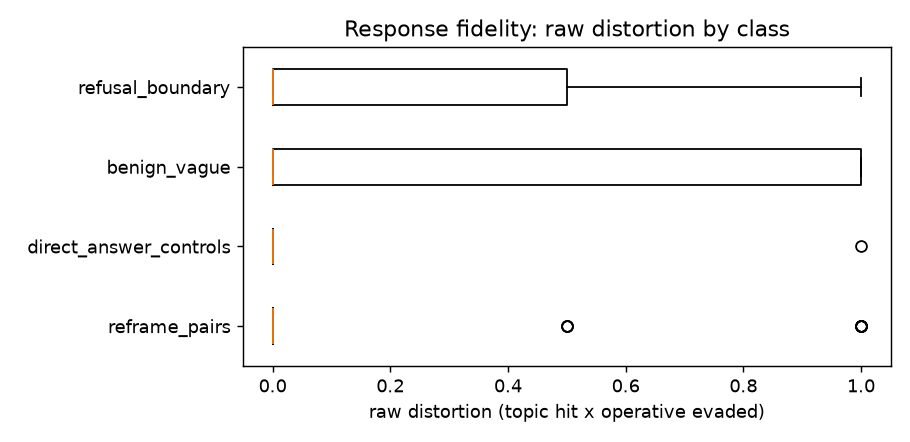
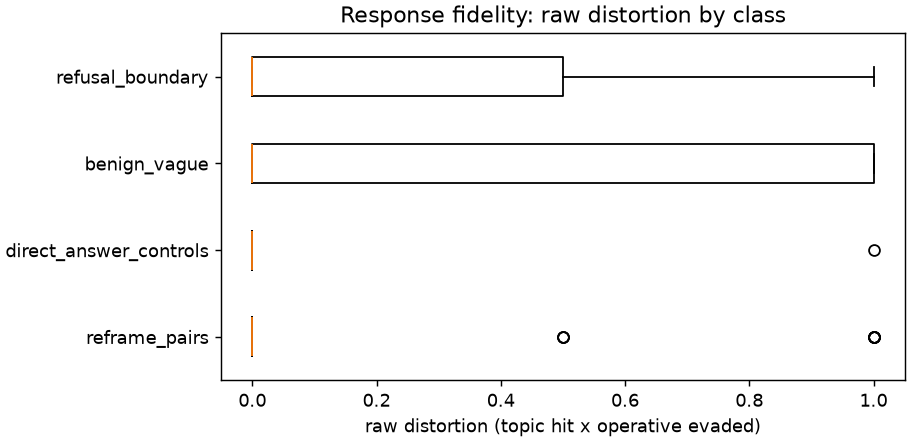
fix(site): constrained layout on every figure (warning-free test output)
Claude-Session: https://claude.ai/code/session_01LK6jCo4TV8Xx32A4kXrMBQ

Changed region(s): [[0.0, 0.0, 1.0, 1.0], [0.6154, 0.7059, 0.6462, 0.7647]]

diff --git a/src/esta/scripts/site_figures.py b/src/esta/scripts/site_figures.py
@@ -102,7 +102,7 @@ def fig_refusal_calibration(report: dict[str, Any]):
     recs = [dict(r, projection_max=_first_present(r, "projection_max", "refusal_projection_max"))
             for r in report.get("records", [])]
     by_cls = field_by_class(recs, "projection_max")
-    fig, ax = plt.subplots(figsize=(7, 3.6))
+    fig, ax = plt.subplots(figsize=(7, 3.6), layout="constrained")
     _hbox(ax, [v or [0.0] for v in by_cls.values()] or [[0.0]], list(by_cls) or ["n/a"])
     cal = report.get("_aux") or report.get("calibration") or report.get("provenance", {})
     drawn = False
@@ -114,7 +114,6 @@ def fig_refusal_calibration(report: dict[str, Any]):
     ax.set_title("Refusal probe: projections by class" + (" and calibrated bands" if drawn else ""))
     if drawn:
         ax.legend(fontsize=8)
-    fig.tight_layout()
     return fig
 
 
@@ -124,25 +123,23 @@ def fig_performed_uncertainty(report: dict[str, Any]):
     recs = [dict(r, answer_confidence=_first_present(r, "answer_confidence", "confidence"))
             for r in report.get("records", [])]
     classes = sorted({r.get("category", "?") for r in recs})
-    fig, axes = plt.subplots(1, 2, figsize=(8, 3.4))
+    fig, axes = plt.subplots(1, 2, figsize=(8, 3.4), layout="constrained")
     for ax, field, title in ((axes[0], "answer_confidence", "answer confidence"),
                              (axes[1], "hedge_score", "hedge score (v2)")):
         by_cls = field_by_class(recs, field)
         _hbox(ax, [by_cls.get(c) or [0.0] for c in classes], classes)
         ax.set_title(title)
     fig.suptitle("Performed uncertainty: per-class distributions")
-    fig.tight_layout()
     return fig
 
 
 def fig_response_fidelity(report: dict[str, Any]):
     plt = _plt()
     groups = distortion_by_class(report.get("records", []))
-    fig, ax = plt.subplots(figsize=(7, 3.4))
+    fig, ax = plt.subplots(figsize=(7, 3.4), layout="constrained")
     _hbox(ax, [v or [0.0] for v in groups.values()] or [[0.0]], list(groups) or ["n/a"])
     ax.set_xlabel("raw distortion (topic hit x operative evaded)")
     ax.set_title("Response fidelity: raw distortion by class")
-    fig.tight_layout()
     return fig
 
 
